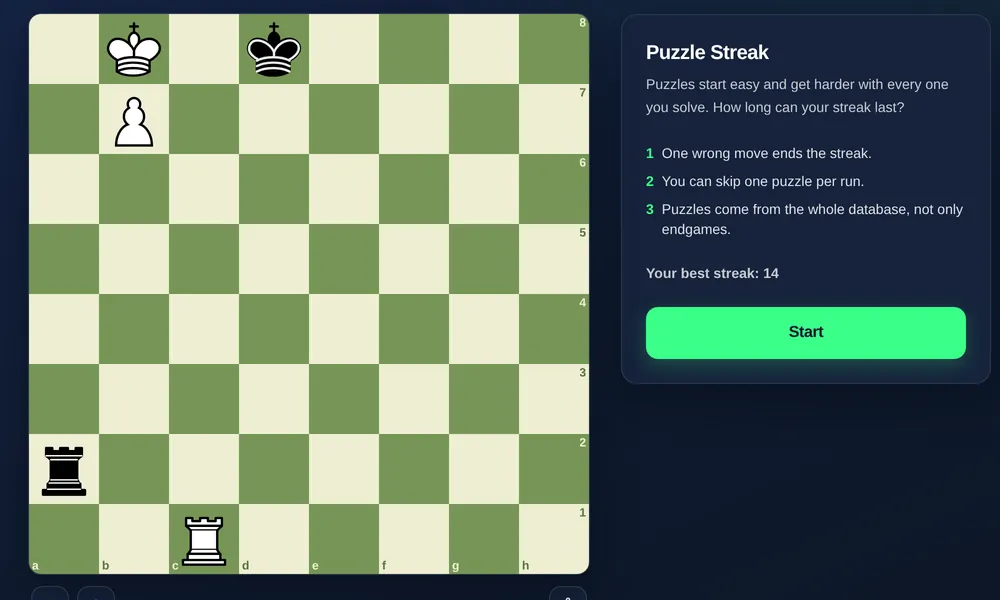
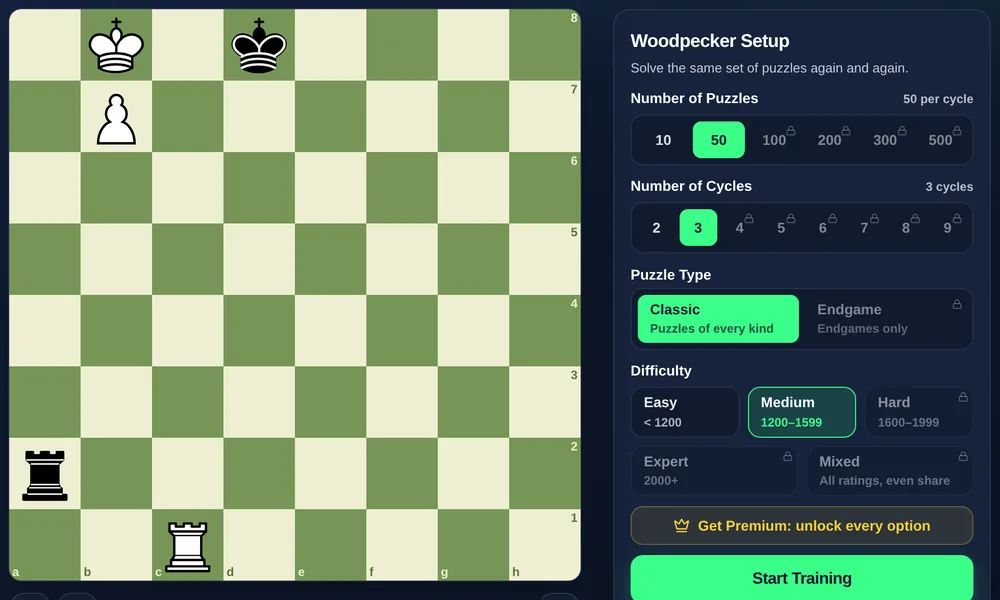
Welcome: Woodpecker screenshot for 'Pick a mode'
Claude-Session: https://claude.ai/code/session_01YC5JRCiqqynmWYQfTxD754

diff --git a/src/components/WelcomeIntro.tsx b/src/components/WelcomeIntro.tsx
@@ -11,7 +11,7 @@ const STEPS: Array<{ title: string; text: string; image: string; alt: string }> 
     title: 'Pick a mode',
     text: 'Start with Woodpecker or Puzzle Streak. Every mode starts easy.',
     image: '/welcome/pick-a-mode.webp',
-    alt: 'The Puzzle Streak page: the board on the left and the start panel on the right',
+    alt: 'The Woodpecker Method page: the board on the left and the setup panel on the right',
   },
   {
     title: 'Train a little every day',
